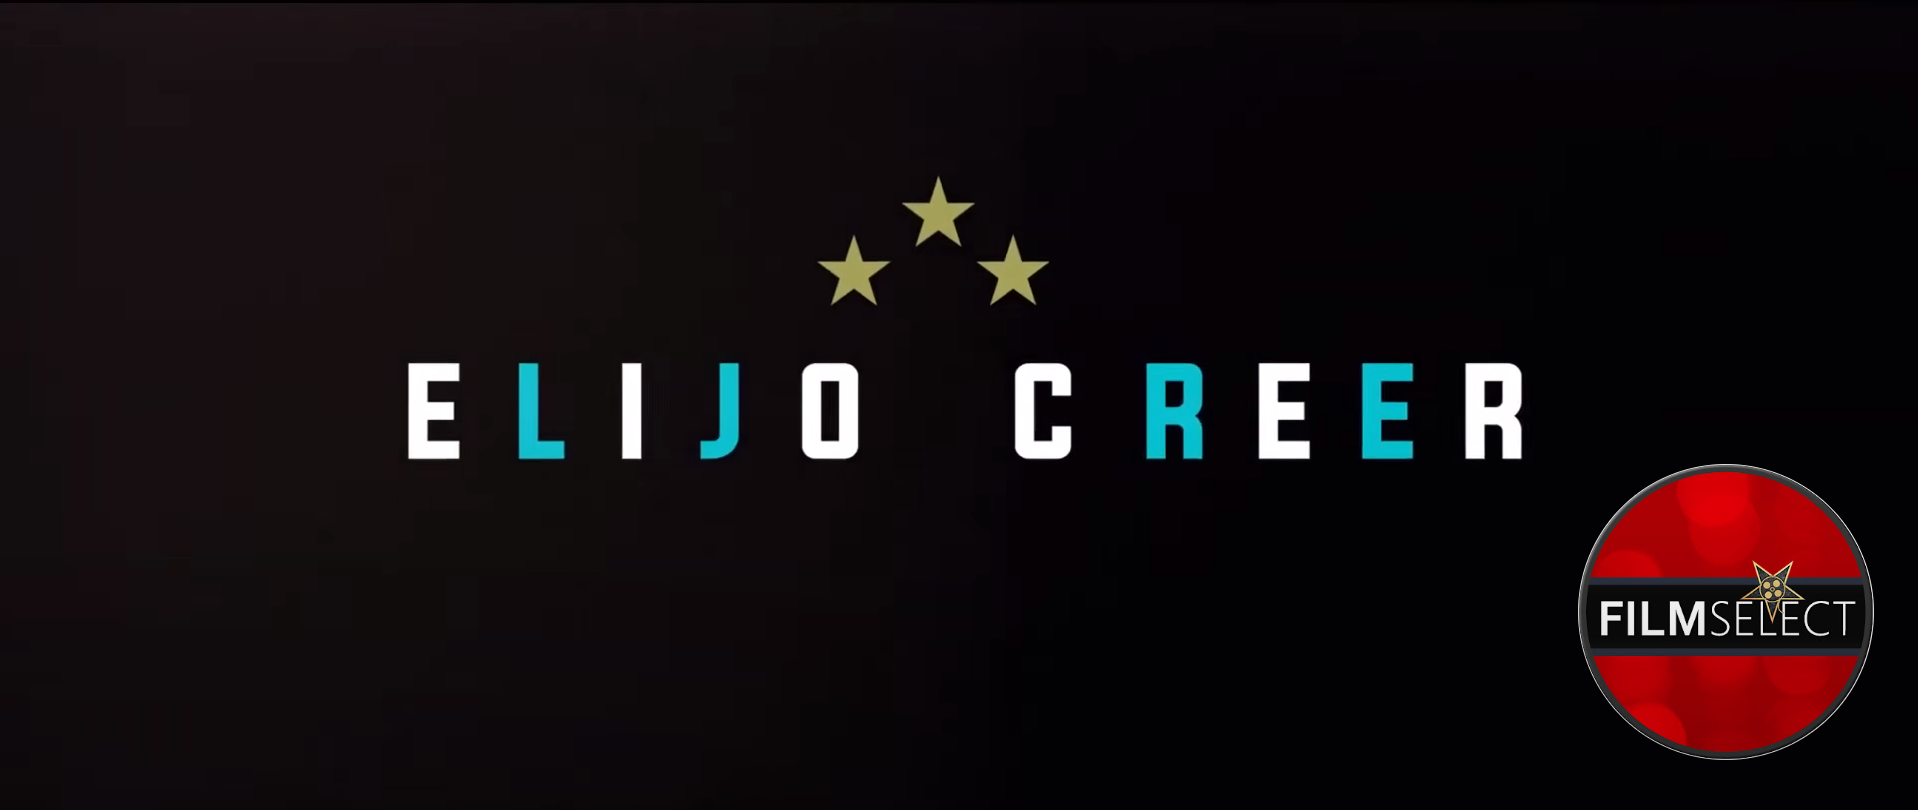
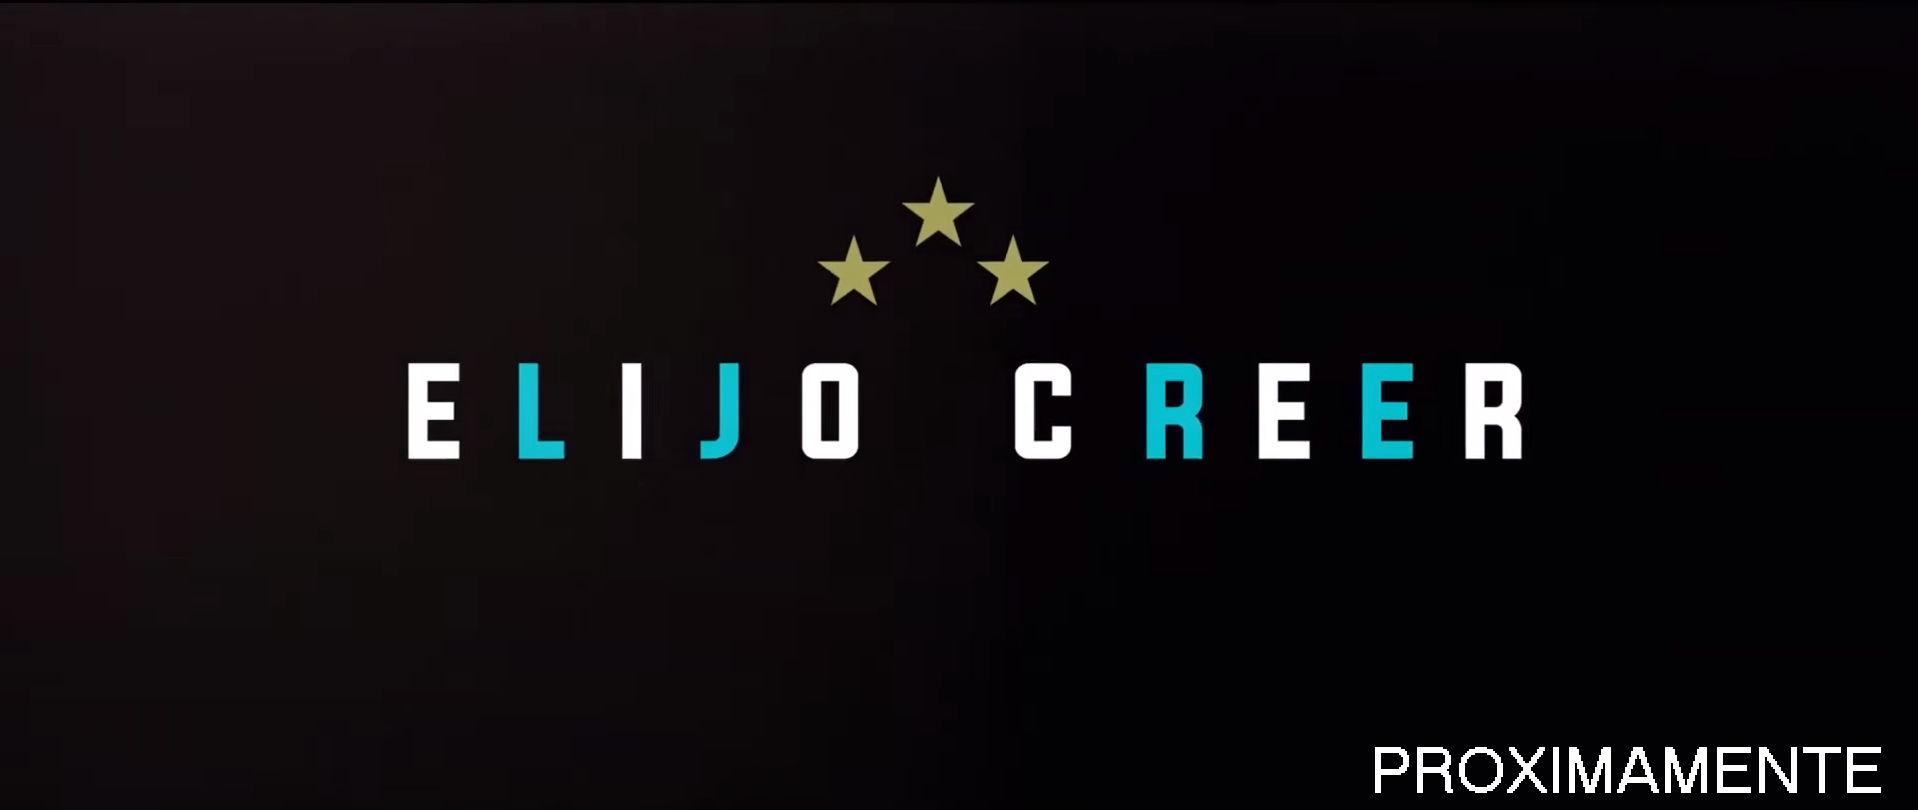
Entregado TP3, falta crear buscador nav

Changed region(s): [[0.7075, 0.5556, 0.9844, 0.9877]]

diff --git a/src/FichaPelicula/Complementos/Renders/VentanaModalRender.js b/src/FichaPelicula/Complementos/Renders/VentanaModalRender.js
@@ -62,40 +62,3 @@ export default function CrearVentandaModal(ticketResponse,ticket) {
 
     return ventMod;
 };
-
-{/* <div>
-<a>${ticketResponse.tickets}</a>
-<a>'FuncionId: '${ticketResponse.funcion.funcionId}</a>
-<a>'Titulo: '${ticketResponse.funcion.pelicula.titulo}</a>
-<a>'Sala: '${ticketResponse.funcion.sala.nombre}</a>
-<a>'Fecha: '${ticketResponse.funcion.fecha}</a>
-<a>'Horario: '${ticketResponse.funcion.horario}</a>
-<a>'Usuario: '${ticketResponse.usuario}</a>
-</div> */}
-
-{/* <a>${ticketResponse.tickets}</a> */}
-// {
-//     "tickets": [
-//       "3fa85f64-5717-4562-b3fc-2c963f66afa6"
-//     ],
-//     "funcion": {
-//       "funcionId": 0,
-//       "pelicula": {
-//         "peliculaId": 0,
-//         "titulo": "string",
-//         "poster": "string",
-//         "genero": {
-//           "id": 0,
-//           "nombre": "string"
-//         }
-//       },
-//       "sala": {
-//         "id": 0,
-//         "nombre": "string",
-//         "capacidad": 0
-//       },
-//       "fecha": "string",
-//       "horario": "string"
-//     },
-//     "usuario": "string"
-//   }

diff --git a/src/FichaPelicula/Complementos/FunctionsFichaPelicula.js b/src/FichaPelicula/Complementos/FunctionsFichaPelicula.js
@@ -105,15 +105,24 @@ function mostrarModal() {
 
 function cerrarModal() {
     modal.style.display = 'none';
+    location.reload();
 }
 
-async function CrearTicket(guardarIdPelicula,cantidadBoletos,nombreUsuario)
-{
-    const resultadoTicket= await TicketApi.Post(guardarIdPelicula,cantidadBoletos,nombreUsuario);
-    let ventanaModal= await GenerarVentanaModal.Get('miVentanaModal',resultadoTicket);
+async function CrearTicket(guardarIdPelicula, cantidadBoletos, nombreUsuario) {
+    let ventanaModal = null;
+    const resultadoTicket = await TicketApi.Post(guardarIdPelicula, cantidadBoletos, nombreUsuario);
+
+    if (typeof resultadoTicket === 'object') {
+        ventanaModal = await GenerarVentanaModal.Get('miVentanaModal', resultadoTicket, true);
+    } else if (typeof resultadoTicket === 'string') {
+        ventanaModal = await GenerarVentanaModal.Get('miVentanaModal', resultadoTicket, false);
+    }
+
     mostrarModal();
-    return ventanaModal
+    return ventanaModal;
 }
+
+
 
 
 

diff --git a/src/cartelera/Complementos/functionGeneroFiltro.js b/src/cartelera/Complementos/functionGeneroFiltro.js
@@ -66,10 +66,8 @@ document.addEventListener('DOMContentLoaded', function() {
         fechaParametro: null,
     };
 
-    // Obtén la URL actual
     const currentURL = window.location.href;
 
-    // Verifica si la URL contiene la palabra "hoy"
     if (currentURL.includes('hoy')) {
         const today = new Date();
         const dd = String(today.getDate()).padStart(2, '0');
@@ -77,11 +75,9 @@ document.addEventListener('DOMContentLoaded', function() {
         const yyyy = today.getFullYear();
         const fechaHoy = yyyy + '-' + mm + '-' + dd;
 
-        // Aplica el filtro para la fecha actual
         selectedValues.fechaParametro = fechaHoy;
         fechaSeleccionadaInput.value = fechaHoy;
 
-        // Actualiza la visualización de la cartelera
         applyFilters();
     }
     else
@@ -89,6 +85,7 @@ document.addEventListener('DOMContentLoaded', function() {
         applyFilters();
     }
 });
+
 
 
 

diff --git a/src/FichaPelicula/Complementos/Generadores/GenerarVentanaModal.js b/src/FichaPelicula/Complementos/Generadores/GenerarVentanaModal.js
@@ -1,9 +1,17 @@
 import VentanaModal from '../Renders/VentanaModalRender.js';
+import SinButacasRender from '../Renders/GenerarSinButacasRender.js'
 
-async function CargarVentanaModal(id, ticketResponse) {
+async function CargarVentanaModal(id, ticketResponse, flag) {
+    console.log(ticketResponse);
     const contenedor = document.getElementById(id);
-    const unaVentanaModal = await VentanaModal(ticketResponse);
-    contenedor.appendChild(unaVentanaModal);
+    let unaVentanaModal = null;
+    if (flag) {
+        unaVentanaModal = await VentanaModal(ticketResponse);
+        contenedor.appendChild(unaVentanaModal);
+    } else {
+        unaVentanaModal = SinButacasRender(ticketResponse);
+        contenedor.appendChild(unaVentanaModal);
+    }
 }
 
 const laVentanaModal = {
@@ -11,3 +19,4 @@ const laVentanaModal = {
 };
 
 export default laVentanaModal;
+

diff --git a/index.html b/index.html
@@ -27,9 +27,6 @@
     <main class="row">
         <div class="col-2"></div>
         <div class="col-8" id="main">
-            <!-- <div class="row" id="frentePublicidad">
-                < <h2 style="color: white;" > WE'RE IN THE ENDGAME NOW</h2> 
-            </div> -->
             <div class="row" id="containerDestacadas">
                 <a class="texto"><h3 class="textq"> DESTACADAS</h3></a>
                 
@@ -48,10 +45,6 @@
             <div class="row" id="containerSinFuncion">
                 <section class="SeccionCartelera" id="cartelera"></section>
             </div>
-            <!-- <div>
-                <a class="texto"><h3> PROXIMAMENTE</h3>
-                <section class="SeccionCartelera"></section>
-            </div> -->
         </div>
         <div class="col-2"></div>
     </main> 

diff --git a/src/FichaPelicula/Complementos/Generadores/GenerarFuncionesYCompra.js b/src/FichaPelicula/Complementos/Generadores/GenerarFuncionesYCompra.js
@@ -13,8 +13,11 @@ async function CargarFunciones(id, pelicula) {
             const fechaFuncion = new Date(funcion.fecha);
             if (funcion.fecha <= ObtenerDiaDeHoy()) {
                 const cantTickets = await ApiTicket.GetCantTickets(funcion.funcionId);
-                seccionContenedora.appendChild(GenerarFuncionYCompraRender(pelicula, funcion, cantTickets.cantidad));
-                contador= contador + 1;
+                if (cantTickets.cantidad > 0)
+                {
+                    seccionContenedora.appendChild(GenerarFuncionYCompraRender(pelicula, funcion, cantTickets.cantidad));
+                    contador= contador + 1;
+                }
             }
         }
         if (contador === 0)

diff --git a/src/footer/footer.js b/src/footer/footer.js
@@ -5,7 +5,7 @@ function GenerarNavBuscador() {
     <div class="footer-container">
         <div class="footer-content">
             <div class="footer-logo">
-                <img src="https://raw.githubusercontent.com/Lucasgomez14/complementosImagenes/main/imagenesTP3/cinema-grande.png" alt="Logo del cine">
+                <img src="https://raw.githubusercontent.com/Lucasgomez14/complementosImagenes/main/imagenesTP3/cinema-grandepro.png" alt="Logo del cine">
                 <h4> CINETRON <h4>
             </div>
             <div class="footer-links">

diff --git a/src/FichaPelicula/Complementos/Renders/GenerarSinButacasRender.js b/src/FichaPelicula/Complementos/Renders/GenerarSinButacasRender.js
@@ -1,0 +1,15 @@
+export default function CrearVentandaModal(message) {
+    const ventMod = document.createElement('div');
+    ventMod.className = 'modal-contenido';
+    ventMod.innerHTML = `
+        <span class="cerrar-modal" id="cerrarModal">&times;</span>
+        <div>
+        <a class="texto-error"> UPS! HA OCURRIDO UN ERROR EN LA OBTENCION DE LOS TICKETS: </a>
+        </div>
+        <div>
+        <a class="texto-error"> ${message.toUpperCase()} </a>
+        </div>
+    `;
+
+    return ventMod;
+};

diff --git a/src/cartelera/cartelera.html b/src/cartelera/cartelera.html
@@ -31,7 +31,7 @@
         <div class="col-8" id="main">      
             <div class="row">
                 <div>
-                    <img src="../imagenes/elijo creer.png"   class="imagenpublicidad" alt="imagenpublicidad">
+                    <img src="https://github.com/Lucasgomez14/complementosImagenes/blob/main/imagenesTP3/elijo%20creer.png?raw=true"   class="imagenpublicidad" alt="imagenpublicidad">
                 </div>
                 <div id="buscadorInput">
                 </div>

diff --git a/src/services/comTicketsApi.js b/src/services/comTicketsApi.js
@@ -16,8 +16,9 @@ const PostTickets = async (id, cantidad, usuario) => {
 
         if (response.ok) {
             result = await response.json();
-        } else {
-            console.error('Error en la solicitud:', response.status);
+        } else if(response.status === 409)
+        {
+            result = ('la cantidad de butacas disponibles es menor a la solicitada')
         }
     } catch (error) {
         console.error('Error en la solicitud:', error);

diff --git a/src/footer/footerStyles.css b/src/footer/footerStyles.css
@@ -2,7 +2,6 @@
     color: rgba(255, 255, 255, 0.788);
     background: rgba(46, 46, 46, 0.137);
     margin-top: 10px;
-    display: end;
 }
 
 .footer-container {
@@ -20,6 +19,7 @@
 
 .footer-logo img {
     width: 100px;
+    color: green;
 }
 
 .footer-links ul {
@@ -50,4 +50,8 @@
 
 .footer-disclaimer {
     text-align: center;
+}
+
+.imagen-con-color {
+    filter: hue-rotate(250deg);
 }

diff --git a/src/MainIndex/MainRender.js b/src/MainIndex/MainRender.js
@@ -6,4 +6,3 @@ CargarCarteleraDestacadas.Get;
 const fechaHoy = new Date().toLocaleDateString('es-ES');
 CargarCartelera.Get('carteleraHoy', fechaHoy,null,null);
 CargarCartelera.Get('cartelera', null,null,null);
-// CargarCartelera.Get('proximamente',null,null,null);
